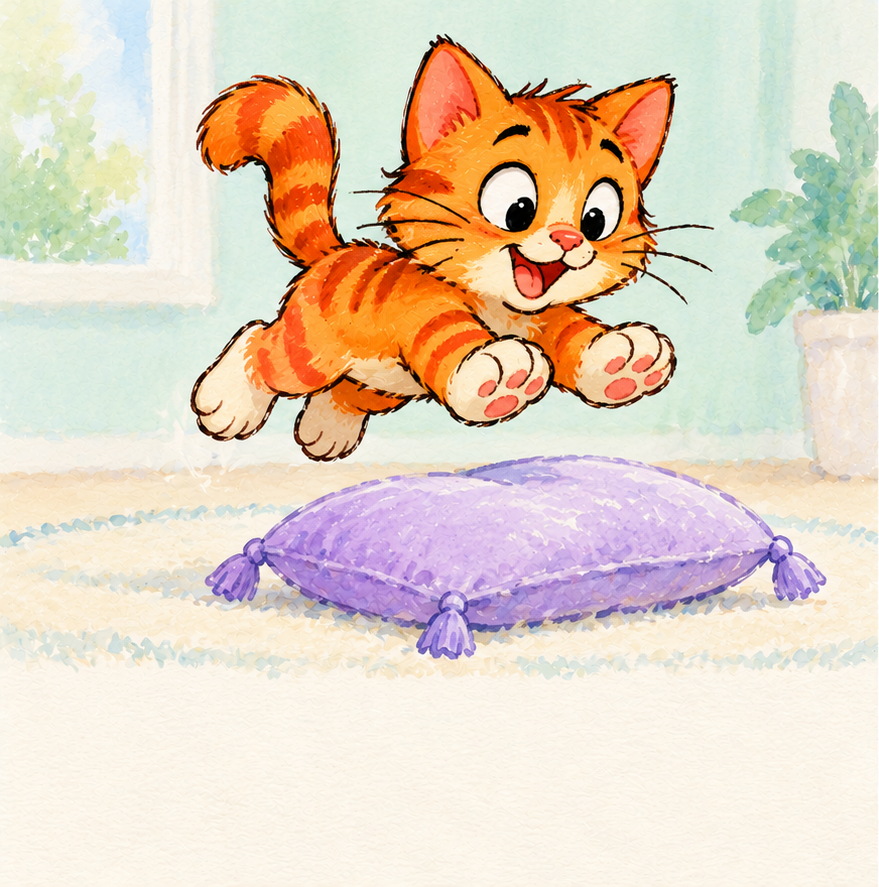
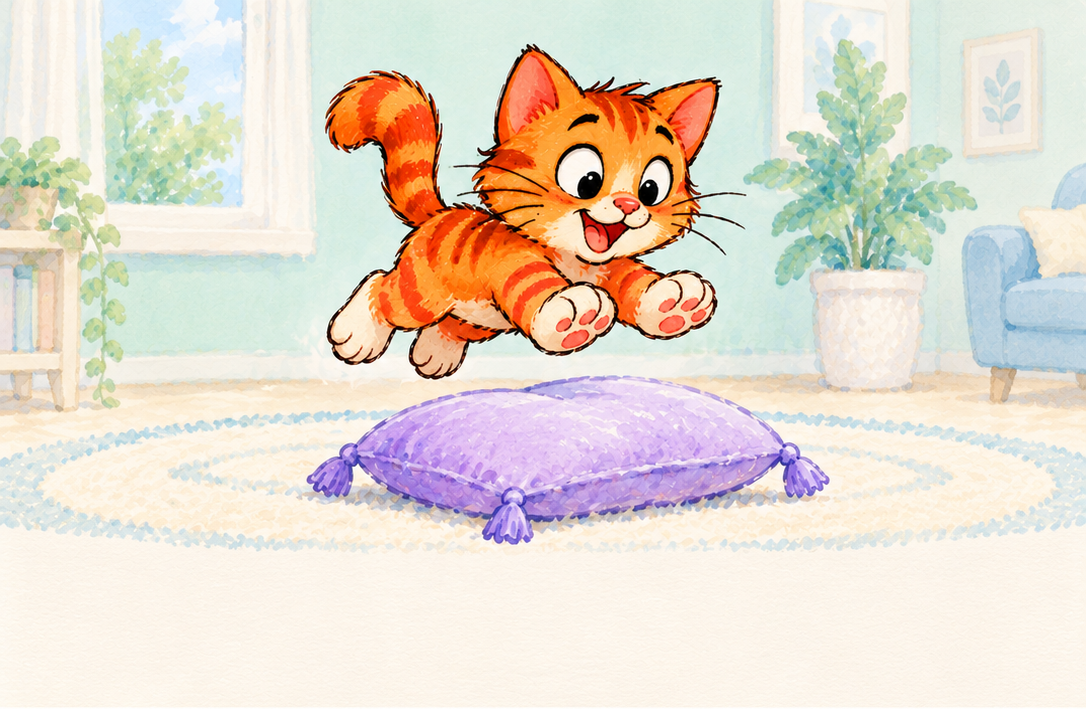
feat: landscape animal stories and simplified PDF/assets release

diff --git a/scripts/build_book.py b/scripts/build_book.py
@@ -1,8 +1,6 @@
-"""Render a YAML book into a PDF, PNG pages and portable asset archives."""
+"""Render a YAML book into a landscape PDF and a portable assets folder/archive."""
 from __future__ import annotations
 import argparse
-import hashlib
-import json
 import math
 from pathlib import Path
 import re
@@ -11,7 +9,6 @@ import sys
 import tempfile
 import zipfile
 
-import pymupdf as fitz
 from PIL import Image
 import yaml
 from reportlab.pdfbase import pdfmetrics
@@ -42,6 +39,12 @@ def load_book(config: Path) -> dict:
     pages = data.get('pages')
     if not isinstance(pages, list) or not pages:
         raise ValueError('Book must have a non-empty pages list')
+    animals = data.get('animals')
+    if animals is not None:
+        if not isinstance(animals, list) or not animals or any(not isinstance(a, str) or not a.strip() for a in animals) or len(set(animals)) != len(animals):
+            raise ValueError('animals must be a non-empty list of unique names')
+        if len(pages) != 2 * len(animals) or any(p.get('animal') != animals[i // 2] for i, p in enumerate(pages) if isinstance(p, dict)):
+            raise ValueError('Expected exactly two pages per animal, in animals order')
     for page in ([data['cover']] if data.get('cover') else []) + pages:
         if not isinstance(page, dict) or not isinstance(page.get('text'), str) or not page['text'].strip():
             raise ValueError('Each page requires non-empty text')
@@ -68,7 +71,7 @@ def archive(path: Path, files: list[tuple[Path, str]]) -> None:
             z.writestr(info, source.read_bytes())
 
 
-def build(config: Path, output: Path, dpi_override: int | None = None) -> Path:
+def build(config: Path, output: Path) -> Path:
     config, output = config.resolve(), output.resolve()
     source = config.parent
     if output == source or source.is_relative_to(output) or output.is_relative_to(source):
@@ -83,68 +86,67 @@ def build(config: Path, output: Path, dpi_override: int | None = None) -> Path:
         raise ValueError('Source and output folders must not overlap')
     # Validate all assets and layout before touching output.
     data = load_book(config)
-    size = number(data, 'page_size_inches', 8, 3, 16) * 72
-    dpi = dpi_override if dpi_override is not None else number(data, 'dpi', 200, 72, 600)
-    if not 72 <= dpi <= 600:
-        raise ValueError('dpi must be between 72 and 600')
+    width = number(data, 'page_width_inches', 12, 3, 16) * 72
+    height = number(data, 'page_height_inches', 8, 3, 16) * 72
     font_size = number(data, 'font_size_pt', 32, 12, 80)
-    baseline = number(data, 'text_baseline', 0.105, 0.05, 0.17) * size
+    baseline = number(data, 'text_baseline', 0.105, 0.05, 0.17) * height
     color = HexColor(data.get('text_color', '#182B36'))
     font_path = local_file(source, data['font'])
     pdfmetrics.registerFont(TTFont('BookFont', str(font_path)))
     entries = ([dict(data['cover'], is_cover=True)] if data.get('cover') else []) + data['pages']
     for page in entries:
         fs = font_size * 1.25 if page.get('is_cover') else font_size
-        if '\n' in page['text'] or pdfmetrics.stringWidth(page['text'], 'BookFont', fs) > size * 0.86:
+        if '\n' in page['text'] or pdfmetrics.stringWidth(page['text'], 'BookFont', fs) > width * 0.86:
             raise ValueError(f'Text overflow; shorten text or reduce font_size_pt: {page["text"]}')
-        if baseline + fs > size * 0.22:
+        if baseline + fs > height * 0.22:
             raise ValueError('Text exceeds reserved bottom 22% of page')
         subtitle = page.get('subtitle')
         if subtitle is not None and baseline - 25 < 12:
             raise ValueError('Cover subtitle would fall below the page; increase text_baseline')
-        if subtitle is not None and (not isinstance(subtitle, str) or '\n' in subtitle or pdfmetrics.stringWidth(subtitle, 'BookFont', 12) > size * .86):
+        if subtitle is not None and (not isinstance(subtitle, str) or '\n' in subtitle or pdfmetrics.stringWidth(subtitle, 'BookFont', 12) > width * .86):
             raise ValueError('Cover subtitle overflows')
     output.parent.mkdir(parents=True, exist_ok=True)
     with tempfile.TemporaryDirectory(prefix='read-guides-', dir=output.parent) as temp:
         staging = Path(temp)
         (staging/'.read-guides-output').write_text('read.guides v1\n')
-        pages_dir = staging/'pages'; pages_dir.mkdir()
-        art_dir = staging/'illustrations'; art_dir.mkdir()
+        assets = staging/'assets'; assets.mkdir()
         pdf_path = staging/f'{data["id"]}.pdf'
-        pdf = canvas.Canvas(str(pdf_path), pagesize=(size, size), invariant=1)
+        pdf = canvas.Canvas(str(pdf_path), pagesize=(width, height), invariant=1)
         pdf.setTitle(data['title']); pdf.setAuthor('read.guides')
         pdf.setSubject('Seis cuentos de animales para leer juntos')
         for i, page in enumerate(entries):
-            pdf.drawImage(str(local_file(source, page['image'])), 0, 0, width=size, height=size)
+            pdf.setFillColor(HexColor('#FFFCF5'))
+            pdf.rect(0, 0, width, height, fill=1, stroke=0)
+            pdf.drawImage(str(local_file(source, page['image'])), 0, 0, width=width, height=height, preserveAspectRatio=True, anchor='c')
+            if page.get('animal') and (i == 0 or entries[i-1].get('animal') != page['animal']):
+                key = f'story-{i}'
+                pdf.bookmarkPage(key)
+                pdf.addOutlineEntry(page['animal'].capitalize(), key)
             pdf.setFillColor(color)
             pdf.setFont('BookFont', font_size * 1.25 if page.get('is_cover') else font_size)
-            pdf.drawCentredString(size/2, baseline, page['text'])
+            pdf.drawCentredString(width/2, baseline, page['text'])
             if page.get('is_cover') and page.get('subtitle'):
                 pdf.setFont('BookFont', 12)
-                pdf.drawCentredString(size/2, baseline - 25, page['subtitle'])
+                pdf.drawCentredString(width/2, baseline - 25, page['subtitle'])
             pdf.showPage()
         pdf.save()
-        with fitz.open(pdf_path) as doc:
-            for i, page in enumerate(doc):
-                page.get_pixmap(dpi=int(dpi)).save(pages_dir/f'{i:02d}.png')
-        for i, page in enumerate(data['pages'], 1):
-            shutil.copyfile(local_file(source, page['image']), art_dir/f'{i:02d}.png')
-        manifest = {'id':data['id'], 'version':str(data.get('version','1.0.0')), 'title':data['title'], 'page_count':len(entries), 'story_pages':len(data['pages']), 'dpi':int(dpi), 'page_size_inches':size/72, 'pages':[{'file':f'pages/{i:02d}.png','text':p['text'],'source':p['image']} for i,p in enumerate(entries)]}
-        (staging/'manifest.json').write_text(json.dumps(manifest, ensure_ascii=False, indent=2)+'\n', encoding='utf-8')
-        archive(staging/f'{data["id"]}-pages.zip', [(p, 'pages/'+p.name) for p in pages_dir.glob('*.png')] + [(staging/'manifest.json','manifest.json')])
-        archive(staging/f'{data["id"]}-illustrations.zip', [(p,'illustrations/'+p.name) for p in art_dir.glob('*.png')])
-        # Portable bundle contains YAML, art, font and its license, plus editorial notes.
+        # Portable assets are the only bundle; no duplicate rendered-page packages.
         paths = {config, font_path} | {local_file(source,p['image']) for p in entries}
         paths |= set((source/'fonts').glob('*.txt')) | set(source.glob('*.md'))
-        archive(staging/f'{data["id"]}-assets.zip', [(p, data['id']+'/'+p.relative_to(source).as_posix()) for p in paths])
-        deliverables = sorted(staging.glob('*.zip')) + [pdf_path, staging/'manifest.json']
-        (staging/'SHA256SUMS.txt').write_text(''.join(f'{hashlib.sha256(p.read_bytes()).hexdigest()}  {p.name}\n' for p in deliverables), encoding='utf-8')
+        for path in paths:
+            target = assets/path.relative_to(source)
+            target.parent.mkdir(parents=True, exist_ok=True)
+            shutil.copyfile(path, target)
+        archive(staging/f'{data["id"]}-assets.zip', [(p, 'assets/'+p.relative_to(assets).as_posix()) for p in assets.rglob('*') if p.is_file()])
         # Replace only our own generated directories; preserve unrelated user files.
         output.mkdir(parents=True, exist_ok=True)
-        for name in ('pages','illustrations'):
+        for name in ('pages','illustrations','assets'):
             target = output/name
             if target.exists():
                 shutil.rmtree(target)
+        # Remove legacy deliverables only from an owned output directory.
+        for name in (f'{data["id"]}-pages.zip', f'{data["id"]}-illustrations.zip', 'manifest.json', 'SHA256SUMS.txt'):
+            (output/name).unlink(missing_ok=True)
         for p in staging.iterdir():
             target = output/p.name
             if p.is_dir():
@@ -158,10 +160,9 @@ def main() -> int:
     parser = argparse.ArgumentParser(description=__doc__)
     parser.add_argument('config', type=Path)
     parser.add_argument('--output', type=Path, default=Path('dist/01-se-cayo'))
-    parser.add_argument('--dpi', type=int, help='PNG resolution; 72–600 (PDF size is unchanged)')
     args = parser.parse_args()
     try:
-        result = build(args.config, args.output, args.dpi)
+        result = build(args.config, args.output)
     except (ValueError, OSError, yaml.YAMLError, TypeError, KeyError) as exc:
         print(f'Build failed: {exc}', file=sys.stderr)
         return 1

diff --git a/tests/test_build.py b/tests/test_build.py
@@ -14,7 +14,7 @@ BOOK = ROOT / 'books/01-se-cayo/book.yaml'
 
 class BuildTests(unittest.TestCase):
     def run_build(self, config, output):
-        return subprocess.run([sys.executable, str(SCRIPT), str(config), '--output', str(output), '--dpi', '72'], capture_output=True, text=True)
+        return subprocess.run([sys.executable, str(SCRIPT), str(config), '--output', str(output)], capture_output=True, text=True)
 
     def test_book_has_cover_twelve_pages_and_accents(self):
         with tempfile.TemporaryDirectory() as tmp:
@@ -26,10 +26,32 @@ class BuildTests(unittest.TestCase):
                 self.assertIn('El pato caminó.', pdf[1].get_text())
                 self.assertIn('El pato se cayó.', pdf[2].get_text())
                 self.assertEqual(sum('se cayó.' in p.get_text() for p in pdf), 6)
-            self.assertEqual(len(list((out/'pages').glob('*.png'))), 13)
-            self.assertEqual(len(list((out/'illustrations').glob('*.png'))), 12)
-            for name in ('01-se-cayo-pages.zip', '01-se-cayo-assets.zip', '01-se-cayo-illustrations.zip', 'SHA256SUMS.txt'):
-                self.assertTrue((out/name).is_file(), name)
+            with fitz.open(out/'01-se-cayo.pdf') as pdf:
+                self.assertTrue(all(p.rect.width > p.rect.height for p in pdf))
+                self.assertIn('La llama saltó.', pdf[9].get_text())
+                self.assertIn('La llama se cayó.', pdf[10].get_text())
+                self.assertIn('El oso bailó.', pdf[11].get_text())
+                self.assertIn('El oso se cayó.', pdf[12].get_text())
+                self.assertEqual([row[1] for row in pdf.get_toc()], ['Pato', 'Gato', 'Mono', 'Vaca', 'Llama', 'Oso'])
+            self.assertEqual(len(list((out/'assets/images').glob('*.png'))), 12)
+            self.assertEqual(sorted(p.name for p in out.glob('*.zip')), ['01-se-cayo-assets.zip'])
+            self.assertFalse((out/'pages').exists())
+            self.assertFalse((out/'illustrations').exists())
+            with zipfile.ZipFile(out/'01-se-cayo-assets.zip') as z:
+                self.assertIn('assets/book.yaml', z.namelist())
+                self.assertIn('assets/images/12-oso.png', z.namelist())
+
+    def test_missing_animal_rejected(self):
+        with tempfile.TemporaryDirectory() as tmp:
+            source = Path(tmp)/'source'
+            shutil.copytree(BOOK.parent, source)
+            config = source/'book.yaml'
+            d = yaml.safe_load(config.read_text(encoding='utf-8'))
+            d['pages'] = d['pages'][:8]
+            config.write_text(yaml.safe_dump(d), encoding='utf-8')
+            result = self.run_build(config, Path(tmp)/'out')
+            self.assertNotEqual(result.returncode, 0)
+            self.assertIn('two pages', result.stderr)
 
     def test_missing_image_fails_before_output(self):
         with tempfile.TemporaryDirectory() as tmp:

diff --git a/README.md b/README.md
@@ -1,52 +1,53 @@
 # read.guides
 
-Small illustrated Spanish books for reading together. **Book 1: Se cayó** has six animals, twelve story pages and a cover.
+Small illustrated Spanish books for reading together. **Se cayó** has six animals, twelve landscape story pages and a cover. Each animal has two separate images/pages: an action, then a gentle fall.
 
-[Download the latest release](https://github.com/lambdawalker/read.guides/releases/latest) · [Builds](https://github.com/lambdawalker/read.guides/actions/workflows/books.yml) · [Letter tracker and series notes](docs/book-series-notes.md)
+[Download the latest release](https://github.com/lambdawalker/read.guides/releases/latest) · [Builds](https://github.com/lambdawalker/read.guides/actions/workflows/books.yml) · [Letter tracker](docs/book-series-notes.md)
+
+## Downloads
+
+Only two release files:
+
+- **01-se-cayo.pdf** — landscape book, 12 × 8 inches, with bookmarks for pato, gato, mono, vaca, llama and oso.
+- **01-se-cayo-assets.zip** — one `assets/` folder with twelve separate landscape PNG illustrations, `book.yaml`, font/license and editorial notes.
+
+The PDF has 13 pages: cover, then six two-page stories. Llama occupies story pages 9–10; bear occupies 11–12. Illustrations are text-free, approximately 1086 pixels wide; text is added by Python as selectable PDF text. The renderer preserves image proportions. This is a reading/home-print PDF, without press bleed or booklet imposition.
 
 ## Build locally (Windows, macOS or Linux)
 
-Install Python 3.11+ and [uv](https://docs.astral.sh/uv/getting-started/installation/), then run from this repository:
+Install Python 3.11+ and [uv](https://docs.astral.sh/uv/getting-started/installation/). From the repository:
 
 ```sh
 uv sync --locked
 uv run python scripts/build_book.py books/01-se-cayo/book.yaml --output dist/01-se-cayo
 ```
 
-No image API keys, system fonts or external font downloads are needed. Images and a licensed font are committed. For faster previews, add `--dpi 100`. Default: 8-inch square pages, 1600 × 1600 PNGs (200 dpi). Source paintings are approximately 880 × 887 pixels; larger exports do not add artwork detail. The PDF embeds the source art and selectable vector text. It is not a printer-imposed or bleed-ready file.
+Output contains the PDF, the uncompressed `assets/` folder and its ZIP for downloading. No separate page/illustration ZIPs, manifest or checksum download is generated. No image API key or system font is needed.
 
-## Downloads
+To rebuild an extracted assets bundle:
 
-GitHub Releases are the permanent book downloads; GitHub Packages is intended for software packages and is unnecessary here.
+```sh
+uv run python scripts/build_book.py path/to/assets/book.yaml --output dist/rebuilt
+```
 
-| File | Contents |
-|---|---|
-| `01-se-cayo.pdf` | Cover and 12 story pages |
-| `01-se-cayo-pages.zip` | 13 numbered finished PNG pages and manifest |
-| `01-se-cayo-illustrations.zip` | 12 numbered illustrations without text |
-| `01-se-cayo-assets.zip` | Portable book folder: YAML, images, font/license, editorial notes |
-| `manifest.json` | Page order, sentences and render settings |
-| `SHA256SUMS.txt` | Download checksums |
+## Edit a book
 
-PNG `00.png` is the cover; `01.png`–`12.png` are the stories. A cover followed by the first action page lets each action/fall pair face each other when printed as a normal book. Duplex booklet imposition is not included.
+Edit `book.yaml`: ordered pages with `image`, `text` and `animal`; `animals` lists the expected stories in order. The renderer requires exactly two consecutive pages per listed animal. An optional `cover` has `image`, `text` and `subtitle`. Image/font paths are relative to the YAML and must stay inside its folder.
 
-## Edit or add a book
+Layout: `page_width_inches` and `page_height_inches` (3–16), `font_size_pt` (12–80), `text_baseline` (0.05–0.17 of page height from the bottom), and `text_color`. Current format is 12 × 8 inches, with 32-point text. The bottom 22% is reserved for text. Missing assets and overflowing text fail before output is changed.
 
-Edit `books/01-se-cayo/book.yaml` to change sentences, order, image paths, font, size, baseline, or color. All image and font paths are relative to that YAML and must remain inside its folder. Use `schema_version: 1`, a lowercase hyphenated `id`, and a `version` such as `1.0.1`. Each page requires `image` and `text`; `cover` is optional. `page_size_inches` is 3–16, `dpi` is 72–600, `font_size_pt` is 12–80, and `text_baseline` is a fraction of page height measured from the bottom (0.05–0.17). The renderer rejects missing assets and overflowing text before writing output. Output must be outside the book source folder. Use an empty output folder on the first build. Subsequent builds require the ownership marker written by the renderer and reject symlinks; its generated `pages/` and `illustrations/` folders are replaced on rebuild.
+Use a dedicated empty output folder initially. Rebuilds require the renderer's ownership marker and reject symlinks. The tool replaces its generated assets folder and removes the old page/illustration bundles when upgrading an owned output folder.
 
-Copy a book folder to start another book and pass its YAML to the same script. The initial workflow builds Book 1; add a job or matrix entry for another book when its assets are ready.
+## Actions and releases
 
-## GitHub Actions and releases
-
-- Pull requests: tests, book build and downloadable Actions artifact (30 days).
-- Pushes to `main` and **Run workflow**: same checks and artifacts; publish `book-01-v<version>` if that release does not exist.
-- Existing releases remain unchanged. Increase `version` in the YAML to publish revised content. Every run still provides a fresh build artifact.
-- Publication uses the built-in `GITHUB_TOKEN` with `contents: write`; no personal access token is required. Repository/organization policy must allow Actions and release writes.
+PRs, pushes to `main` and **Run workflow** run tests and build the PDF/assets. Actions keeps downloadable build artifacts for 30 days. Successful main builds publish `book-01-v<version>` when absent. Bump `version` in the YAML for a new release; existing releases remain unchanged. Publication uses the built-in workflow token with `contents: write`.
 
 ```sh
 uv run python -m unittest discover -s tests -v
 ```
 
+The tests verify all six stories, explicit llama/bear text, landscape PDF pages, bookmarks, simplified bundle contents, and validation failures.
+
 ## Editorial rules
 
-Keep **cayó** as the familiar repeated word. Mostly two-syllable vocabulary, at most three for content words. Make the protagonist stand out through darker outlines, stronger colors and a quieter contrasting background. See [Book 1 manuscript and art notes](books/01-se-cayo/README.md) and [implementation decisions](docs/book-production-design.md).
+Keep **cayó**. Content words have mostly two syllables, at most three. Make the protagonist stand out: saturated animal, dark outlines, soft contrasting background. See [manuscript and art notes](books/01-se-cayo/README.md).

diff --git a/docs/book-series-notes.md b/docs/book-series-notes.md
@@ -69,12 +69,15 @@ Animal names may include letters outside the initial set when needed. Prefer eas
 - Place large, clear text on a quiet, light area with consistent positioning.
 - Generate art without embedded text; the Python renderer adds the exact Spanish wording.
 - Confirmed structure: six animals, one two-page story per animal, for twelve story pages.
-- Proposed production defaults: square pages, one sentence per page, cover separate from story pages. Physical dimensions and typeface remain to be selected; twelve story pages are confirmed.
+- Approved production defaults: landscape pages (12 × 8 inches), one sentence per page, cover separate from story pages. DejaVu Sans, twelve story pages plus cover.
 
 ## Proposed production workflow
 
-One folder per book contains images and book.yaml. YAML describes ordered pages, exact text, image paths, and optional layout settings. A Python command runnable with uv renders numbered PNG pages and the assembled PDF from the same layout. Page size, margins, font and output resolution should be configurable. Validate missing assets, font availability and text overflow before export. Finalize the manuscript before generating all illustrations.
+One folder per book contains images and book.yaml. YAML describes ordered pages, exact text, image paths, and optional layout settings. A Python command runnable with uv assembles the landscape PDF from twelve separate text-free PNG illustrations. Page width, height, font and text placement are configurable. Validate missing assets, font availability and text overflow before export. Finalize the manuscript before generating all illustrations.
 
 ## Next decision
 
 The first book is implemented: pato, gato, mono, vaca, llama and oso; twelve story pages plus a cover. The approved rule is to make the protagonist stand out: saturated animal, strong dark contours, pale low-contrast background, and neighboring colors that contrast with the animal. The duck uses blue, purple and pink flowers instead of orange/yellow leaves. Book 1 covers the initial consonants except D; Book 2 must include D and reinforce the rest. No reading mastery is inferred from this coverage.
+
+
+Current delivery: one PDF plus one assets folder (ZIP for releases); no extra page or illustration archives. Explicit completeness checks require two pages for every animal, including llama and oso.

diff --git a/docs/release-notes.md b/docs/release-notes.md
@@ -1,14 +1,12 @@
-# Se cayó · Libro 1
+# Se cayó · Libro 1 · Edición horizontal
 
-Seis animales, seis cuentos de dos páginas: pato, gato, mono, vaca, llama y oso.
+Seis cuentos completos, dos imágenes y dos páginas por animal: pato, gato, mono, vaca, llama y oso. Portada y doce páginas horizontales de 12 × 8 pulgadas. El PDF incluye marcadores para encontrar cada cuento; llama está en las páginas de cuento 9–10 y oso en 11–12.
 
-- **01-se-cayo.pdf**: portada y doce páginas, formato cuadrado de 8 pulgadas.
-- **01-se-cayo-pages.zip**: todas las páginas PNG con texto, incluida la portada.
-- **01-se-cayo-illustrations.zip**: doce ilustraciones PNG sin texto.
-- **01-se-cayo-assets.zip**: ilustraciones, book.yaml, fuente y licencia; permite editar el texto y reconstruir el libro.
-- **manifest.json**: orden de las páginas y frases.
-- **SHA256SUMS.txt**: sumas de comprobación de los archivos.
+Solo dos descargas:
 
-Texto añadido por Python. Las ilustraciones fueron creadas con asistencia de IA siguiendo la dirección artística aprobada: protagonista destacado, contornos oscuros, fondos suaves y colores contrastantes.
+- **01-se-cayo.pdf**: libro completo con texto.
+- **01-se-cayo-assets.zip**: carpeta `assets/` con doce ilustraciones PNG horizontales sin texto, `book.yaml`, fuente/licencia y notas editoriales.
 
-PDF para lectura y uso doméstico; no incluye sangrado ni imposición para imprenta. Los PNG se exportan a 1600 × 1600; las ilustraciones originales tienen aproximadamente 880 × 887 píxeles, por lo que la exportación no añade detalle a la pintura.
+Los protagonistas conservan colores intensos y contornos oscuros sobre fondos suaves y contrastantes. Las ilustraciones se recompusieron para formato horizontal; no se estiraron. Texto añadido por Python, con «cayó» en los seis cuentos. Arte creado con asistencia de IA y revisado visualmente.
+
+Uso doméstico/lectura; sin sangrado ni imposición de imprenta. Las ilustraciones tienen 1086 píxeles de ancho. Para cambiar frases, edite book.yaml y reconstruya con el script del repositorio.

diff --git a/books/01-se-cayo/README.md b/books/01-se-cayo/README.md
@@ -1,6 +1,6 @@
 # Se cayó
 
-Portada y doce páginas: seis cuentos, dos páginas por animal.
+Portada y doce páginas horizontales (12 × 8 pulgadas): seis cuentos, dos páginas por animal.
 
 | Páginas | Acción | Caída |
 |---|---|---|
@@ -22,6 +22,6 @@ El libro 1 usa C, T, M, N, L, LL, B, V, P, G, Y y S. D queda pendiente para el l
 
 Acuarela, gouache y crayón de aspecto manual; textura de papel, anatomía graciosa y ligeramente exagerada. El protagonista tiene los contornos más oscuros y colores más intensos. Fondos pálidos y suaves. Las flores, cojines y otros objetos cercanos contrastan con el animal: azul, lavanda y rosa alrededor de amarillos, naranjas y marrones. Personaje consistente en las dos páginas. Caídas suaves y sin daño. El 22% inferior se reserva para texto.
 
-Generado con la herramienta integrada de imágenes; las escenas se crearon como pares para conservar la identidad. Los archivos images/ son paneles separados sin letras. El renderizador añade las frases de book.yaml. El PDF y los PNG usan la misma composición.
+Generado con la herramienta integrada de imágenes; las escenas se crearon como pares para conservar la identidad. Los archivos images/ son paneles separados sin letras. El renderizador añade las frases de book.yaml. Cada historia tiene dos archivos PNG horizontales separados, uno por escena. El PDF conserva sus proporciones. La entrega contiene solo el PDF y la carpeta assets (comprimida en un ZIP para descargar).
 
 Para reconstruir desde este paquete, use scripts/build_book.py del repositorio read.guides y pase la ruta de este book.yaml. La fuente DejaVu Sans y su licencia se incluyen en fonts/.

diff --git a/docs/book-production-design.md b/docs/book-production-design.md
@@ -21,3 +21,8 @@ GitHub Releases fit downloadable books better than GitHub Packages. Every PR/mai
 ## Verification
 
 Check PDF page count, exact accented sentences and six occurrences of se cayó. Check PNG counts and archive contents, missing asset behavior, source/output separation and overflow. Visually inspect a contact sheet and full-size duck pages. Observe Actions to verify publication, and report any access/policy failure honestly.
+
+
+## Revision 1.1.0 (approved format change)
+
+The user requested landscape illustrations, two separate images per story, and only the assets folder and PDF. This supersedes the square-page and multiple-ZIP decisions above. All twelve illustrations have been recomposed to landscape. PDF is 12 × 8 inches with preserved image proportions; assets contains the twelve text-free PNGs, YAML, font/license and notes. Releases attach only PDF and assets ZIP. The six-animal list is validated against two consecutive pages each; tests explicitly verify llama and bear and all six PDF bookmarks. No rendered-page or standalone illustration ZIPs, manifest or checksum download is produced.
